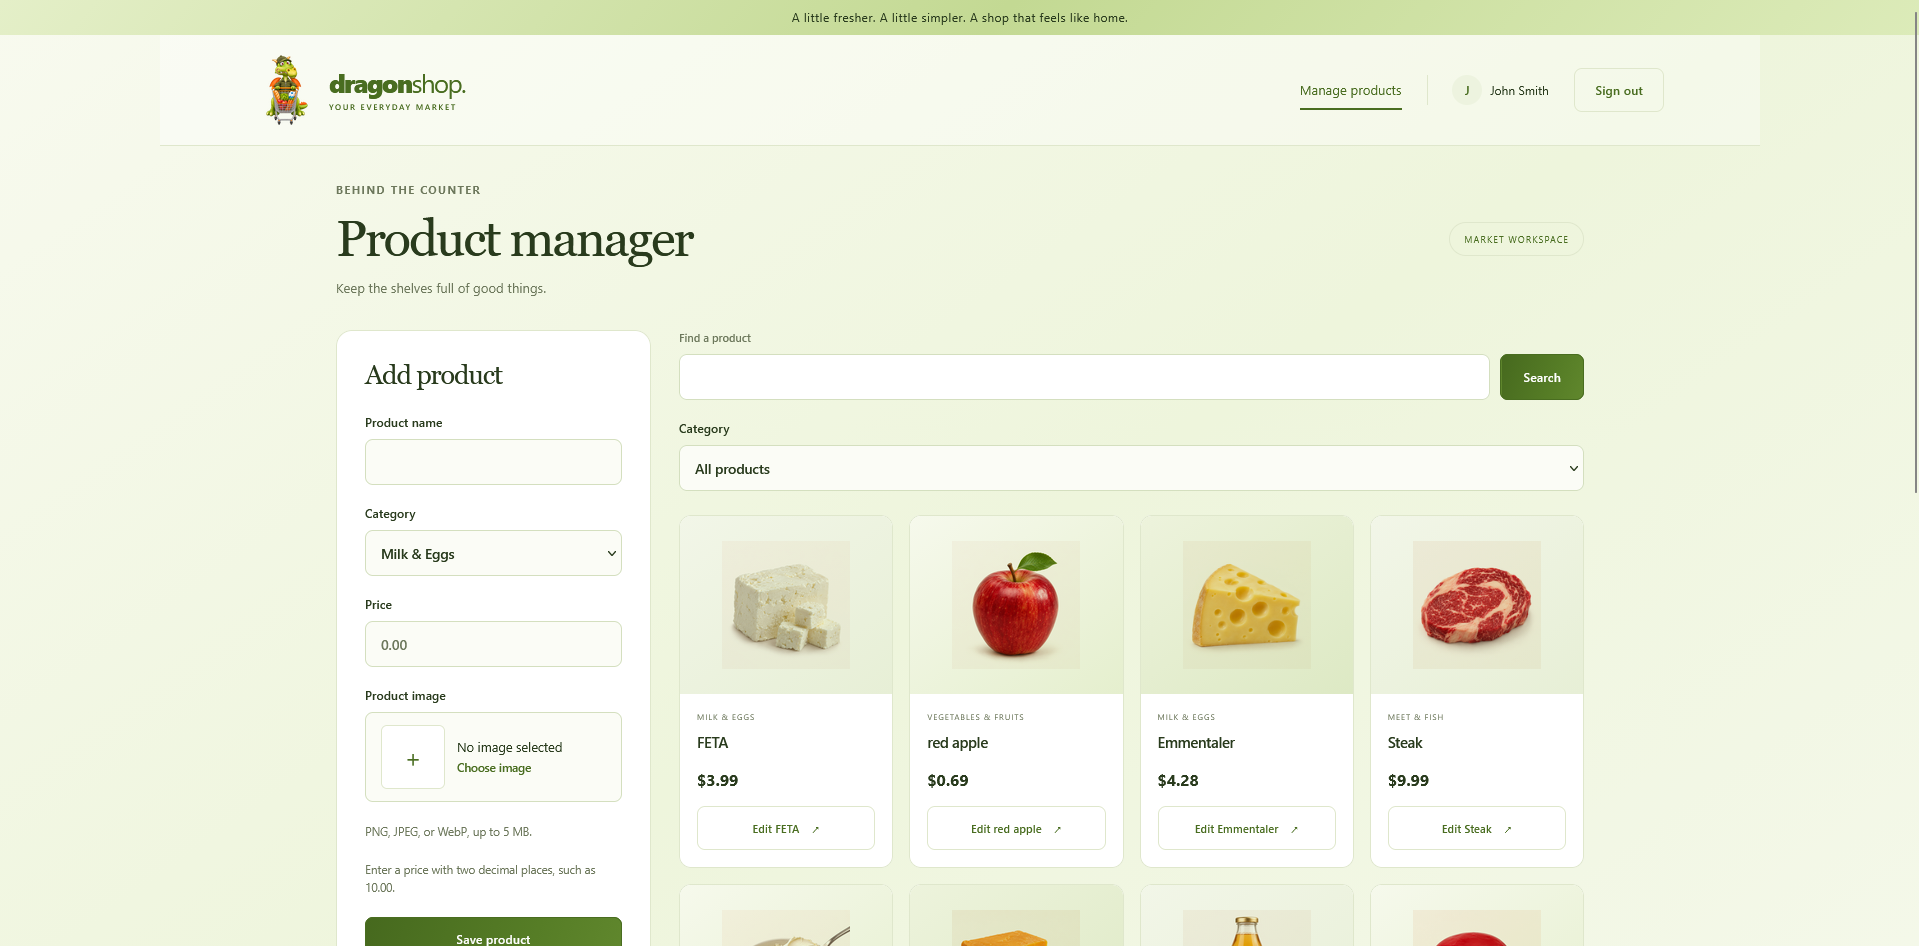
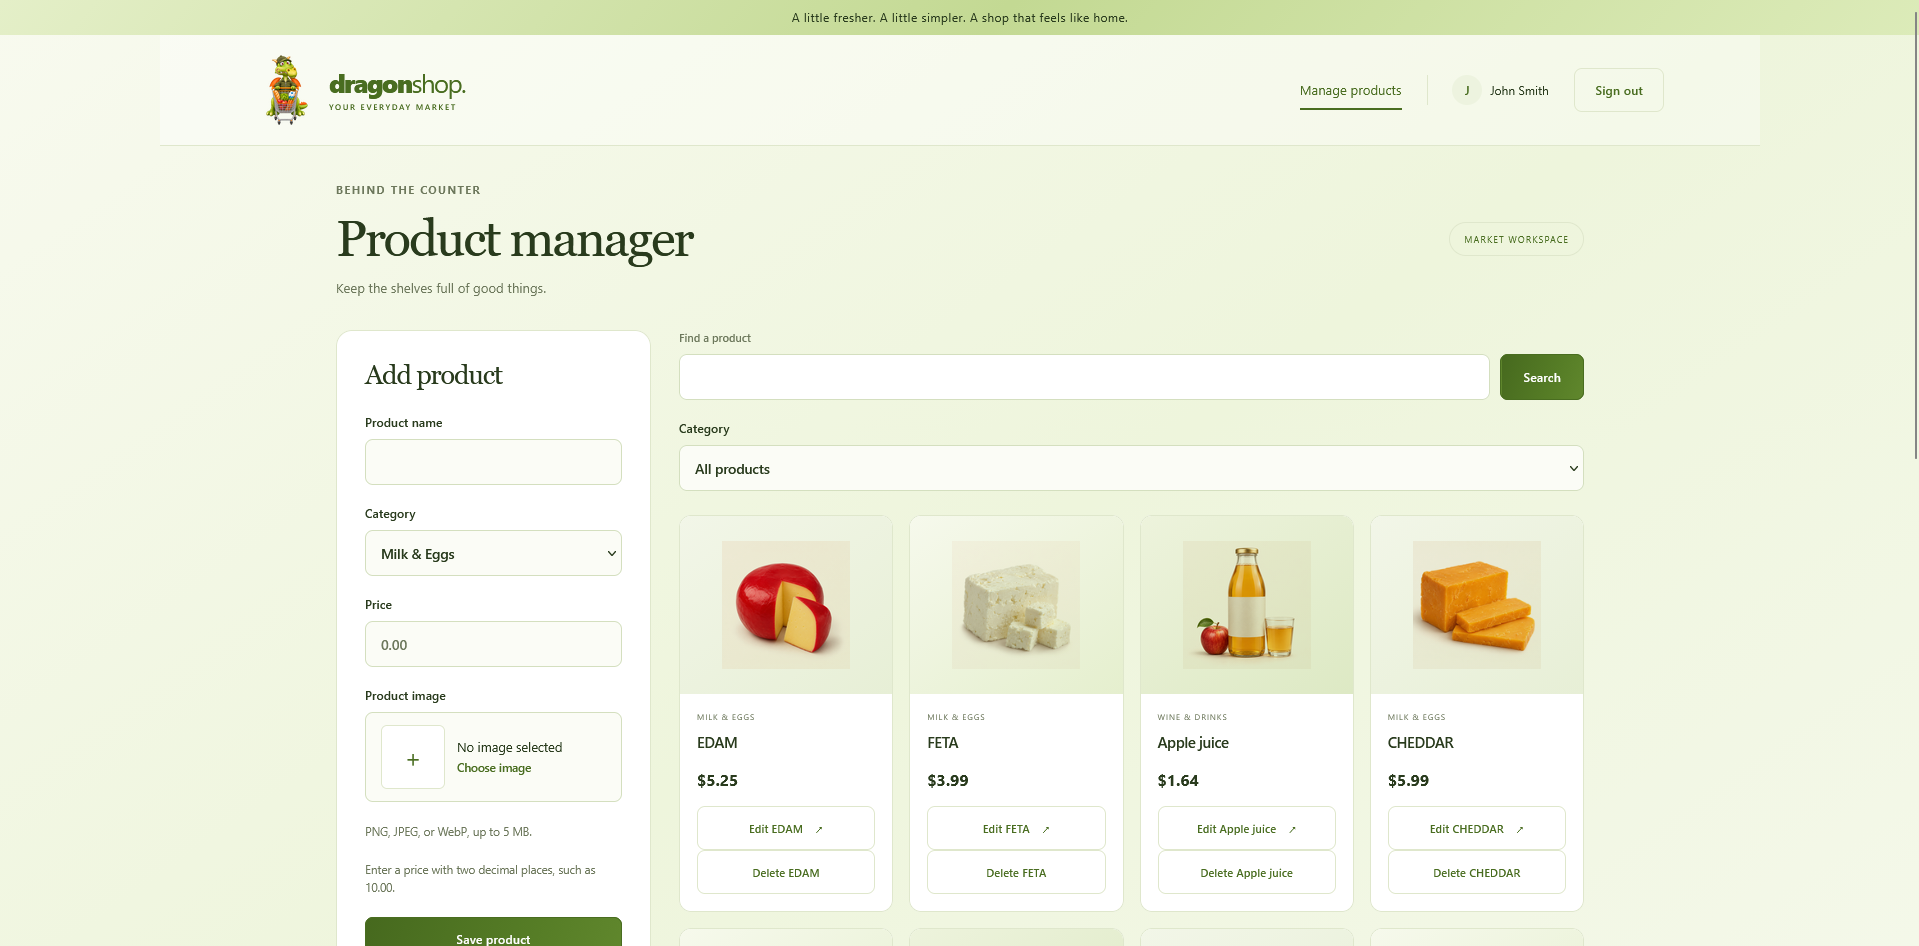
Add administrator product deletion with confirmation dialog

diff --git a/backend/tests/backend.test.ts b/backend/tests/backend.test.ts
@@ -98,7 +98,13 @@ const key = 'test-only-session-signing-key';
 let app: INestApplication;
 type Collection = 'users' | 'products' | 'carts' | 'orders';
 type ModelMethod =
-  'find' | 'findOne' | 'create' | 'countDocuments' | 'findByIdAndUpdate' | 'findOneAndUpdate';
+  | 'find'
+  | 'findOne'
+  | 'create'
+  | 'countDocuments'
+  | 'findByIdAndUpdate'
+  | 'findByIdAndDelete'
+  | 'findOneAndUpdate';
 type MockModels = Record<Collection, Record<ModelMethod, jest.Mock<(...args: any[]) => any>>>;
 let models: MockModels;
 let directory: string;
@@ -730,6 +736,7 @@ beforeAll(async () => {
           'create',
           'countDocuments',
           'findByIdAndUpdate',
+          'findByIdAndDelete',
           'findOneAndUpdate',
         ].map((method) => [method, jest.fn<(...args: any[]) => any>()]),
       ),
@@ -953,6 +960,7 @@ test('logout clears the session cookie', async () => {
 for (const [method, route, allowedRole] of [
   ['post', 'add-product', 1],
   ['post', 'edit-product', 1],
+  ['post', 'delete-product', 1],
   ['get', 'get-last-order', 0],
   ['get', 'total-orders', 0],
   ['get', 'total-products', 0],
@@ -1411,4 +1419,41 @@ describe.each(['create-cart', 'update-cart'])('%s validates cart contents', (rou
 
 test('unknown endpoints return 404', async () => {
   await api().get('/unknown').expect(404);
+});
+
+test.each([undefined, '', 'invalid', { $ne: null }])(
+  'product deletion rejects invalid id %j',
+  async (id) => {
+    const response = await api()
+      .post('/delete-product')
+      .set('Cookie', cookie(admin))
+      .send({ id })
+      .expect(200);
+    expect(response.body).toEqual({ success: false });
+    expect(models.products.findByIdAndDelete).not.toHaveBeenCalled();
+  },
+);
+
+test.each([true, false])(
+  'product deletion reports whether a product was removed (%s)',
+  async (exists) => {
+    models.products.findByIdAndDelete.mockResolvedValue(exists ? { _id: customer._id } : null);
+    const response = await api()
+      .post('/delete-product')
+      .set('Cookie', cookie(admin))
+      .send({ id: customer._id })
+      .expect(200);
+    expect(response.body).toEqual({ success: exists });
+    expect(models.products.findByIdAndDelete).toHaveBeenCalledWith(customer._id);
+  },
+);
+
+test('product deletion rejects anonymous and unverified requests', async () => {
+  await api().post('/delete-product').send({ id: customer._id }).expect(401);
+  await request(app.getHttpServer())
+    .post('/delete-product')
+    .set('Cookie', cookie(admin))
+    .send({ id: customer._id })
+    .expect(403);
+  expect(models.products.findByIdAndDelete).not.toHaveBeenCalled();
 });

diff --git a/frontend/src/app/pages/management/management.page.ts b/frontend/src/app/pages/management/management.page.ts
@@ -1,4 +1,4 @@
-import { Component, inject, OnInit, signal } from '@angular/core';
+import { Component, ElementRef, inject, OnInit, signal, viewChild } from '@angular/core';
 import { FormsModule } from '@angular/forms';
 import { ApiService } from '../../services/api.service';
 import { Product } from '../../models/api.models';
@@ -11,6 +11,7 @@ import { message } from '../../utils/error-message';
   selector: 'app-management',
   imports: [FormsModule, ProductEditorComponent, ProductCardComponent],
   templateUrl: './management.page.html',
+  styleUrl: './management.page.scss',
 })
 export class ManagementPage implements OnInit {
   private readonly api = inject(ApiService);
@@ -18,12 +19,56 @@ export class ManagementPage implements OnInit {
   readonly products = signal<Product[]>([]);
   readonly loading = signal(false);
   readonly error = signal('');
+  readonly deleting = signal(false);
+  readonly pendingDelete = signal<Product | null>(null);
+  readonly deleted = signal('');
+  private readonly deleteDialog = viewChild.required<ElementRef<HTMLDialogElement>>('deleteDialog');
+  private readonly editorComponent = viewChild.required(ProductEditorComponent);
   search = '';
   category = '';
   private latestRequestId = 0;
 
   ngOnInit() {
     void this.load();
+  }
+
+  requestDelete(product: Product) {
+    if (this.deleting() || this.editorComponent().saving()) return;
+    this.error.set('');
+    this.deleted.set('');
+    this.pendingDelete.set(product);
+    this.deleteDialog().nativeElement.showModal();
+  }
+
+  cancelDelete(event?: Event) {
+    if (this.deleting()) {
+      event?.preventDefault();
+      return;
+    }
+    this.pendingDelete.set(null);
+    this.deleteDialog().nativeElement.close();
+  }
+
+  async confirmDelete() {
+    const product = this.pendingDelete();
+    if (!product || this.deleting()) return;
+    this.deleting.set(true);
+    this.error.set('');
+    try {
+      const result = await this.api.deleteProduct(product.id);
+      if (!result.success)
+        throw new Error('Product could not be deleted. It may already have been removed.');
+      this.products.update((products) => products.filter((item) => item.id !== product.id));
+      if (this.editorComponent().editing === product.id) this.editorComponent().reset();
+      this.deleted.set(`${product.name} deleted.`);
+      this.pendingDelete.set(null);
+      this.deleteDialog().nativeElement.close();
+      await this.load();
+    } catch {
+      this.error.set('Unable to delete the product. Please try again.');
+    } finally {
+      this.deleting.set(false);
+    }
   }
 
   async load() {

diff --git a/frontend/e2e/shop.spec.ts b/frontend/e2e/shop.spec.ts
@@ -276,3 +276,50 @@ test('redesigned login and storefront fit desktop and mobile screens', async ({
   }
   await page.screenshot({ path: testInfo.outputPath('store-mobile.png'), fullPage: true });
 });
+
+test('administrator confirms product deletion and can cancel without changing the catalog', async ({
+  page,
+}) => {
+  let products = [
+    { id: 'p1', name: 'Edam', category: 'Milk & Eggs', price: 5.25, image: '/products/edam.png' },
+  ];
+  let deletes = 0;
+  await page.route('**/reconect', (route) =>
+    route.fulfill({ json: { success: true, role: 1, user: 'admin', name: 'Shop Admin' } }),
+  );
+  await page.route('**/get-all-products', (route) =>
+    route.fulfill({ json: { success: true, products } }),
+  );
+  await page.route('**/delete-product', async (route) => {
+    deletes++;
+    expect(route.request().postDataJSON()).toEqual({ id: 'p1' });
+    expect(route.request().headers()['x-xsrf-token']).toBeTruthy();
+    if (deletes === 1) {
+      await route.fulfill({ status: 500, json: { success: false } });
+      return;
+    }
+    products = [];
+    await route.fulfill({ json: { success: true } });
+  });
+  await page.goto('/#/management');
+  await page.getByRole('button', { name: 'Edit Edam' }).click();
+  await page.getByRole('button', { name: 'Delete Edam', exact: true }).click();
+  const dialog = page.getByRole('dialog', { name: 'Delete product?' });
+  await expect(dialog).toContainText('Are you realy want to delete Edam?');
+  await dialog.getByRole('button', { name: 'No', exact: true }).click();
+  await expect(dialog).not.toBeVisible();
+  expect(deletes).toBe(0);
+  await expect(page.getByRole('button', { name: 'Delete Edam', exact: true })).toBeVisible();
+  await page.getByRole('button', { name: 'Delete Edam', exact: true }).click();
+  await dialog.getByRole('button', { name: 'Yes', exact: true }).click();
+  await expect(dialog.getByRole('alert')).toContainText('Unable to delete the product');
+  await expect(page.locator('.products .product')).toHaveCount(1);
+  await dialog.getByRole('button', { name: 'Yes', exact: true }).click();
+  await expect(dialog).not.toBeVisible();
+  await expect(page.locator('.products .product')).toHaveCount(0);
+  await expect(page.getByLabel('Product name')).toHaveValue('');
+  await expect(page.getByText('Edam deleted.', { exact: true })).toBeVisible();
+  await page.reload();
+  await expect(page.locator('.products .product')).toHaveCount(0);
+  expect(deletes).toBe(2);
+});

diff --git a/frontend/src/app/pages/management/management.page.html b/frontend/src/app/pages/management/management.page.html
@@ -7,7 +7,12 @@
   <span class="workspace-badge">MARKET WORKSPACE</span>
 </div>
 <div class="shop-layout management-layout">
-  <section app-product-editor #editor (productSaved)="load()"></section>
+  <section
+    app-product-editor
+    #editor
+    (productSaved)="load()"
+    [attr.inert]="deleting() ? '' : null"
+  ></section>
   <section>
     <form class="search" (ngSubmit)="load()">
       <label>Find a product<input type="search" name="search" [(ngModel)]="search" /></label
@@ -25,6 +30,8 @@
     <p class="error" role="alert">{{ error() }}</p>
     } @if (loading()) {
     <p role="status">Loading products…</p>
+    } @if (deleted()) {
+    <p role="status">{{ deleted() }}</p>
     }
     <div class="products">
       @for (product of products(); track product.id) {
@@ -32,8 +39,9 @@
         app-product-card
         [product]="product"
         mode="manage"
-        [disabled]="editor.saving()"
+        [disabled]="editor.saving() || deleting()"
         (selected)="editor.edit($event)"
+        (deleteRequested)="requestDelete($event)"
       ></article>
       } @empty { @if (!loading()) {
       <p>No products found.</p>
@@ -41,3 +49,29 @@
     </div>
   </section>
 </div>
+<dialog
+  #deleteDialog
+  aria-labelledby="delete-product-title"
+  aria-describedby="delete-product-description"
+  (cancel)="cancelDelete($event)"
+>
+  <h2 id="delete-product-title">Delete product?</h2>
+  <p id="delete-product-description">Are you realy want to delete {{ pendingDelete()?.name }}?</p>
+  @if (error()) {
+  <p class="error" role="alert">{{ error() }}</p>
+  }
+  <div class="actions">
+    <button
+      type="button"
+      class="secondary"
+      (click)="cancelDelete()"
+      [disabled]="deleting()"
+      autofocus
+    >
+      No
+    </button>
+    <button type="button" (click)="confirmDelete()" [disabled]="deleting()">
+      {{ deleting() ? 'Deleting…' : 'Yes' }}
+    </button>
+  </div>
+</dialog>

diff --git a/backend/tests/integration.test.ts b/backend/tests/integration.test.ts
@@ -519,3 +519,36 @@ test('logout expires the browser session cookie', async () => {
   assert.match(logout.cookie, /Expires=Thu, 01 Jan 1970/);
   assert.equal((await request('/reconect', { status: 401 })).body.success, false);
 });
+
+test('only administrators can delete products and deletion persists in MongoDB', async () => {
+  const product = await Product.create({
+    name: 'Disposable product',
+    category: 'Milk & Eggs',
+    price: 1.25,
+    image: '/products/edam.png',
+  });
+  const body = { id: String(product._id) };
+  const login = await request('/login', {
+    method: 'POST',
+    body: { username: registration.email, password },
+  });
+  const activeCustomerCookie = login.cookie!.split(';')[0];
+  await request('/delete-product', {
+    method: 'POST',
+    body,
+    cookie: activeCustomerCookie,
+    status: 403,
+  });
+  assert.ok(await Product.findById(product._id));
+  assert.equal(
+    (await request('/delete-product', { method: 'POST', body, cookie: adminCookie })).body.success,
+    true,
+  );
+  assert.equal(await Product.findById(product._id), null);
+  const catalog = (await request('/get-all-products', { cookie: adminCookie })).body;
+  assert.ok(!catalog.products.some((item: { id: string }) => item.id === body.id));
+  assert.equal(
+    (await request('/delete-product', { method: 'POST', body, cookie: adminCookie })).body.success,
+    false,
+  );
+});

diff --git a/backend/src/services/products.service.ts b/backend/src/services/products.service.ts
@@ -97,6 +97,12 @@ export class ProductsService {
     return { success: true };
   }
 
+  async deleteProduct(body: Pick<ProductInput, 'id'>) {
+    if (!isValidProductOrCartId(body?.id)) return { success: false };
+    const deleted = await this.models.products.findByIdAndDelete(body.id);
+    return { success: Boolean(deleted) };
+  }
+
   async count() {
     return { success: true, productsCount: await this.models.products.countDocuments({}) };
   }

diff --git a/backend/src/controllers/api.controller.ts b/backend/src/controllers/api.controller.ts
@@ -155,6 +155,13 @@ export class ApiController {
   }
 
   @Role(1)
+  @Post('delete-product')
+  @HttpCode(200)
+  deleteProduct(@Body() body: ProductInput) {
+    return this.productsService.deleteProduct(body);
+  }
+
+  @Role(1)
   @Post('upload-product-image')
   @HttpCode(200)
   @UseInterceptors(FileInterceptor('image', { limits: { fileSize: 5 * 1024 * 1024, files: 1 } }))

diff --git a/frontend/src/app/components/product-card/product-card.component.ts b/frontend/src/app/components/product-card/product-card.component.ts
@@ -13,6 +13,7 @@ export class ProductCardComponent {
   readonly disabled = input(false);
   readonly mode = input<'shop' | 'manage'>('shop');
   readonly selected = output<Product>();
+  readonly deleteRequested = output<Product>();
   imageError(event: Event) {
     const image = event.target as HTMLImageElement;
     if (!image.src.endsWith('/assets/img/market-basket.svg')) {

diff --git a/frontend/src/app/components/product-card/product-card.component.html b/frontend/src/app/components/product-card/product-card.component.html
@@ -21,5 +21,13 @@
     >
       Edit {{ product().name }} <span aria-hidden="true">↗</span>
     </button>
+    <button
+      class="secondary"
+      type="button"
+      (click)="deleteRequested.emit(product())"
+      [disabled]="disabled()"
+    >
+      Delete {{ product().name }}
+    </button>
   }
 </div>

diff --git a/frontend/src/app/services/api.service.ts b/frontend/src/app/services/api.service.ts
@@ -91,6 +91,10 @@ export class ApiService {
     );
   }
 
+  deleteProduct(id: string) {
+    return firstValueFrom(this.http.post<Result>('/delete-product', { id }));
+  }
+
   uploadProductImage(file: File) {
     const body = new FormData();
     body.append('image', file);

diff --git a/README.md b/README.md
@@ -273,6 +273,7 @@ API paths are relative to the backend origin (`http://localhost:3000` by default
 | ------ | --------------------------- | ------------------------- |
 | POST   | `/add-product`              | Create a product.         |
 | POST   | `/edit-product`             | Edit a product.           |
+| POST   | `/delete-product`           | Delete a product (admin). |
 | POST   | `/upload-product-image`     | Upload a product image.   |
 | POST   | `/find-product`             | Find products by name.    |
 | GET    | `/get-all-products`         | Get all products.         |
@@ -300,6 +301,8 @@ Response:
 ```
 
 For `/edit-product`, include an additional `id` field containing the product's MongoDB ObjectId. Prices must be nonnegative, have exactly two decimal places, and fit within safe integer cents. Send prices as strings (for example, `"10.00"`) to preserve trailing zeros. Category must be one of `Milk & Eggs`, `Vegetables & Fruits`, `Meet & Fish`, or `Wine & Drinks`.
+
+`POST /delete-product` requires an administrator session and a valid CSRF token. Send `{ "id": "<product ObjectId>" }`. It returns `{ "success": true }` when a product is deleted, or `{ "success": false }` for an invalid or missing product. Customers receive HTTP 403. In the product manager, **Delete** opens a confirmation naming the product; **Yes** deletes it and refreshes the catalog, while **No** or Escape cancels. Saved orders and invoice snapshots are preserved. An open cart containing a deleted product must be updated before checkout.
 
 `POST /upload-product-image` also requires an administrator session. Send multipart form data with an `image` file (PNG, JPEG, or WebP, up to 5 MB). Success returns `{ "success": true, "image": "/products/uploads/<generated-filename>" }`. Use that URL as the product's `image` field.
 
